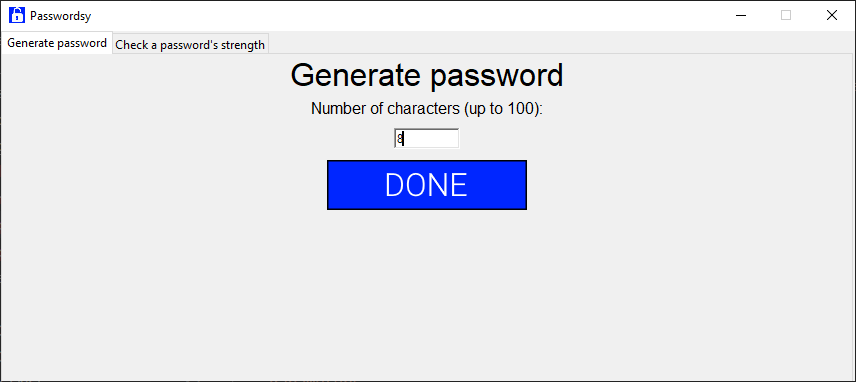
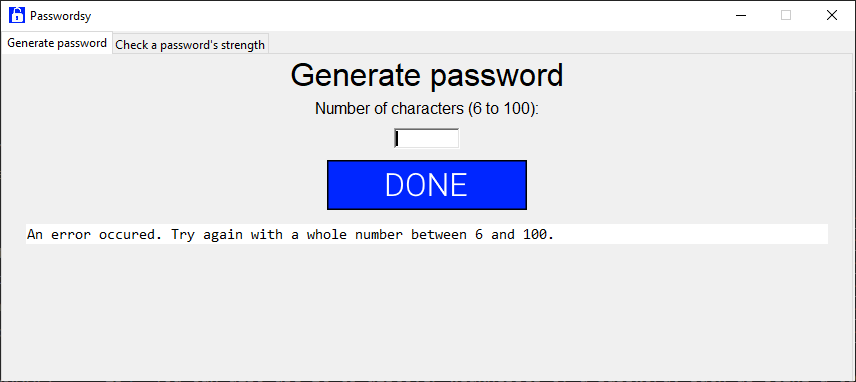
Generated passwords are more secure

diff --git a/password_generator/generate_password.py b/password_generator/generate_password.py
@@ -10,6 +10,13 @@ keyboard = Controller()
 
 characters = string.ascii_letters + string.punctuation + string.digits
 
+password_width = 100
+password_height = 1
+password_border_width = 0
+password_font = 'Consolas 11'
+
+error = 'An error occured. Try again with a whole number between 6 and 100.'
+
 def update_mouse_coordinates(x, y) -> None:
     '''
     Called by the motion function in main.py,
@@ -17,7 +24,7 @@ def update_mouse_coordinates(x, y) -> None:
     relative to the window,
     to generate_password.py.
 
-    Parametres
+    Parameters
     ----------
     x: int
         The x coordinate of the mouse cursor, relative to the window.
@@ -33,13 +40,14 @@ def show_copy_button(event) -> None:
     this function displays a 'copy' button slightly above the mouse cursor,
     and places it on top of all other widgets.
 
-    Parametres
+    Parameters
     ----------
     event:
         Necessary for initiating the function when the user releases a mouse button a password label
     '''
     global x_coordinate, y_coordinate
     global copy
+
     copy.place(x = x_coordinate - 20, y = y_coordinate - 75)
     copy.lift()
 
@@ -48,7 +56,7 @@ def hide_copy_button(event) -> None:
     Called when the user clicks on a password label,
     this function attempts to hide the 'copy' button.
 
-    Parametres
+    Parameters
     ----------
     event:
         Necessary for initiating the function when the user releases a mouse button a password label
@@ -92,14 +100,15 @@ def show_generate_password_frame(frame, done_btn_image) -> None:
     frame_title = tk.Label(frame, text = frame_title_text, font = title_font)
     frame_title.place(relx = 0.5, rely = 0.0, anchor = 'n')
 
-    question = tk.Label(frame, text = 'Number of characters (up to 100):', font = description_font)
+    question = tk.Label(frame, text = 'Number of characters (6 to 100):', font = description_font)
     question.place(relx = 0.5, rely = 0.12, anchor = 'n')
 
     def create_password_labels(event) -> None:
         '''
         Called upon clicking the done button or pressing the ENTER key,
         this function creates the password(s) or error label(s),
-        and calls the show_password() function to show the passwords or the error.
+        calls the generate_password function to get a password,
+        and calls the show_password function to show the passwords or the error.
 
         Parameters
         ----------
@@ -117,13 +126,6 @@ def show_generate_password_frame(frame, done_btn_image) -> None:
         except:
             pass
 
-        password_width = 100
-        password_height = 1
-        password_border_width = 0
-        password_font = 'Consolas 11'
-
-        error = 'An error occured. Try again with a whole number greater than 0.'
-
         password_label_1 = tk.Text(frame, width = password_width, height = password_height,
                                    borderwidth = password_border_width, font = password_font)
         password_label_2 = tk.Text(frame, width = password_width, height = password_height,
@@ -139,9 +141,13 @@ def show_generate_password_frame(frame, done_btn_image) -> None:
             for password_label in password_labels:
                 password_label.bind('<ButtonRelease>', show_copy_button)
                 password_label.bind('<Button>', hide_copy_button)
-                requested_length = int(input_box.get())
-                password = generate_password(requested_length)
-                show_password(password_label, password, password_labels.index(password_label))
+
+                generate_password(int(input_box.get()))
+
+                global password
+                password_to_be_shown = password
+
+                show_password(password_label, password_to_be_shown, password_labels.index(password_label))
         except ValueError:
             input_box.delete(0, 'end')
             show_password(password_label_1, error, 0)
@@ -173,14 +179,14 @@ def show_generate_password_frame(frame, done_btn_image) -> None:
 
         label.insert(1.0, text)
         label.place(relx = 0.5, rely = 0.485 + (index / 10), anchor = 'n')
-        label.configure(state = 'disabled')  # Makes the text uneditable.
+        label.config(state = 'disabled')
 
-    def generate_password(requested_length) -> str:
+    def generate_password(requested_length) -> None:
         '''
-        Called by the create_password_labels function,
+        Called by the create_password_labels function
         (upon clicking the done button or the ENTER key),
         this function checks if the requested_length is valid,
-        returns a password if it is,
+        creates a global variable with a secure password if it is,
         raises a value error if it's not.
 
         Parameters
@@ -191,10 +197,51 @@ def show_generate_password_frame(frame, done_btn_image) -> None:
         Raises
         ------
         ValueError
-            If the requested length is not an integer greater than 0.
+            If the requested length is not an integer between 6 and 100.
         '''
+        try:
+            if 6 <= requested_length <= 100:
+                generated_password = ''.join(secrets.choice(characters) for _ in range(max(min(int(requested_length), 100), max(int(requested_length), 6))))
 
-        if requested_length > 0:
-            return ''.join(secrets.choice(characters) for _ in range(min(int(requested_length), 100))) # This is where the password itself is generated
-        else:
+                lowercase_letters = []
+                lowercase_letters[:0] = string.ascii_lowercase
+
+                uppercase_letters = []
+                uppercase_letters[:0] = string.ascii_uppercase
+
+                digits = []
+                digits[:0] = string.digits
+
+                punctuation = []
+                punctuation[:0] = string.punctuation
+
+                generate_password_characters = []
+                generate_password_characters[:0] = generated_password
+
+                number_of_lowercase_letters = 0
+                number_of_uppercase_letters = 0
+                number_of_digits = 0
+                number_of_punctuation = 0
+
+                for character in generate_password_characters:
+                    if character in lowercase_letters:
+                        number_of_lowercase_letters += 1
+
+                    if character in uppercase_letters:
+                        number_of_uppercase_letters += 1
+
+                    if character in digits:
+                        number_of_digits += 1
+
+                    if character in punctuation:
+                        number_of_punctuation += 1
+
+                if number_of_lowercase_letters == 0 or number_of_uppercase_letters == 0 or number_of_digits == 0 or number_of_punctuation == 0:
+                    generate_password(requested_length)
+                else:
+                    global password
+                    password = generated_password
+            else:
+                raise ValueError
+        except:
             raise ValueError

diff --git a/password_generator/password_strength.py b/password_generator/password_strength.py
@@ -21,7 +21,7 @@ def update_mouse_coordinates(x, y) -> None:
     relative to the window,
     to password_strength.py.
 
-    Parametres
+    Parameters
     ----------
     x: int
         The x coordinate of the mouse cursor, relative to the window.
@@ -37,7 +37,7 @@ def show_paste_button(event) -> None:
     this function displays a 'paste' button slightly above the mouse cursor,
     and places it on top of all other widgets.
 
-    Parametres
+    Parameters
     ----------
     event:
         Necessary for initiating the function when the user releases a mouse button a password label
@@ -52,7 +52,7 @@ def hide_paste_button(event) -> None:
     Called when the user left-clicks on the input box,
     this function attempts to hide the 'paste' button.
 
-    Parametres
+    Parameters
     ----------
     event:
         Necessary for initiating the function when the user releases a mouse button a password label

diff --git a/password_generator/main.py b/password_generator/main.py
@@ -37,7 +37,7 @@ def main() -> None:
         relative to the window,
         to each file.
 
-        Parametres
+        Parameters
         ----------
         event:
             Tkinter event

diff --git a/README.md b/README.md
@@ -11,7 +11,7 @@ Click File > Clone repository, put https://github.com/IceTheDev2/Passwordsy/ int
 Run main.py from a terminal.
 
 ## Usage
-You can use this program to generate a random string of up to 100 letters, numbers and punctuation marks, and use the string how you desire.
+You can use this program to generate a random secure string of 6 to 100 letters, numbers and punctuation marks.
 
 ![alt text](https://github.com/IceTheDev2/Passwordsy/blob/main/password_generator/screenshots/1.PNG)  
 ![alt text](https://github.com/IceTheDev2/Passwordsy/blob/main/password_generator/screenshots/2.PNG)  
@@ -20,7 +20,7 @@ You can use this program to generate a random string of up to 100 letters, numbe
 ![alt text](https://github.com/IceTheDev2/Passwordsy/blob/main/password_generator/screenshots/5.PNG)
 ![alt text](https://github.com/IceTheDev2/Passwordsy/blob/main/password_generator/screenshots/6.PNG)  
 
-You can also use it to discover weaknesses of a password, such as it being a commonly used password, having a short length, not containing upper and lower case letters, digits, and punctuation, and containing a repeated character.
+You can also use it to discover weaknesses of a password, such as being a commonly used password, having a short length, not containing upper and lower case letters, digits, and punctuation, or containing a repeated character.
 
 ![alt text](https://github.com/IceTheDev2/Passwordsy/blob/main/password_generator/screenshots/7.PNG)
 ![alt text](https://github.com/IceTheDev2/Passwordsy/blob/main/password_generator/screenshots/8.PNG)
